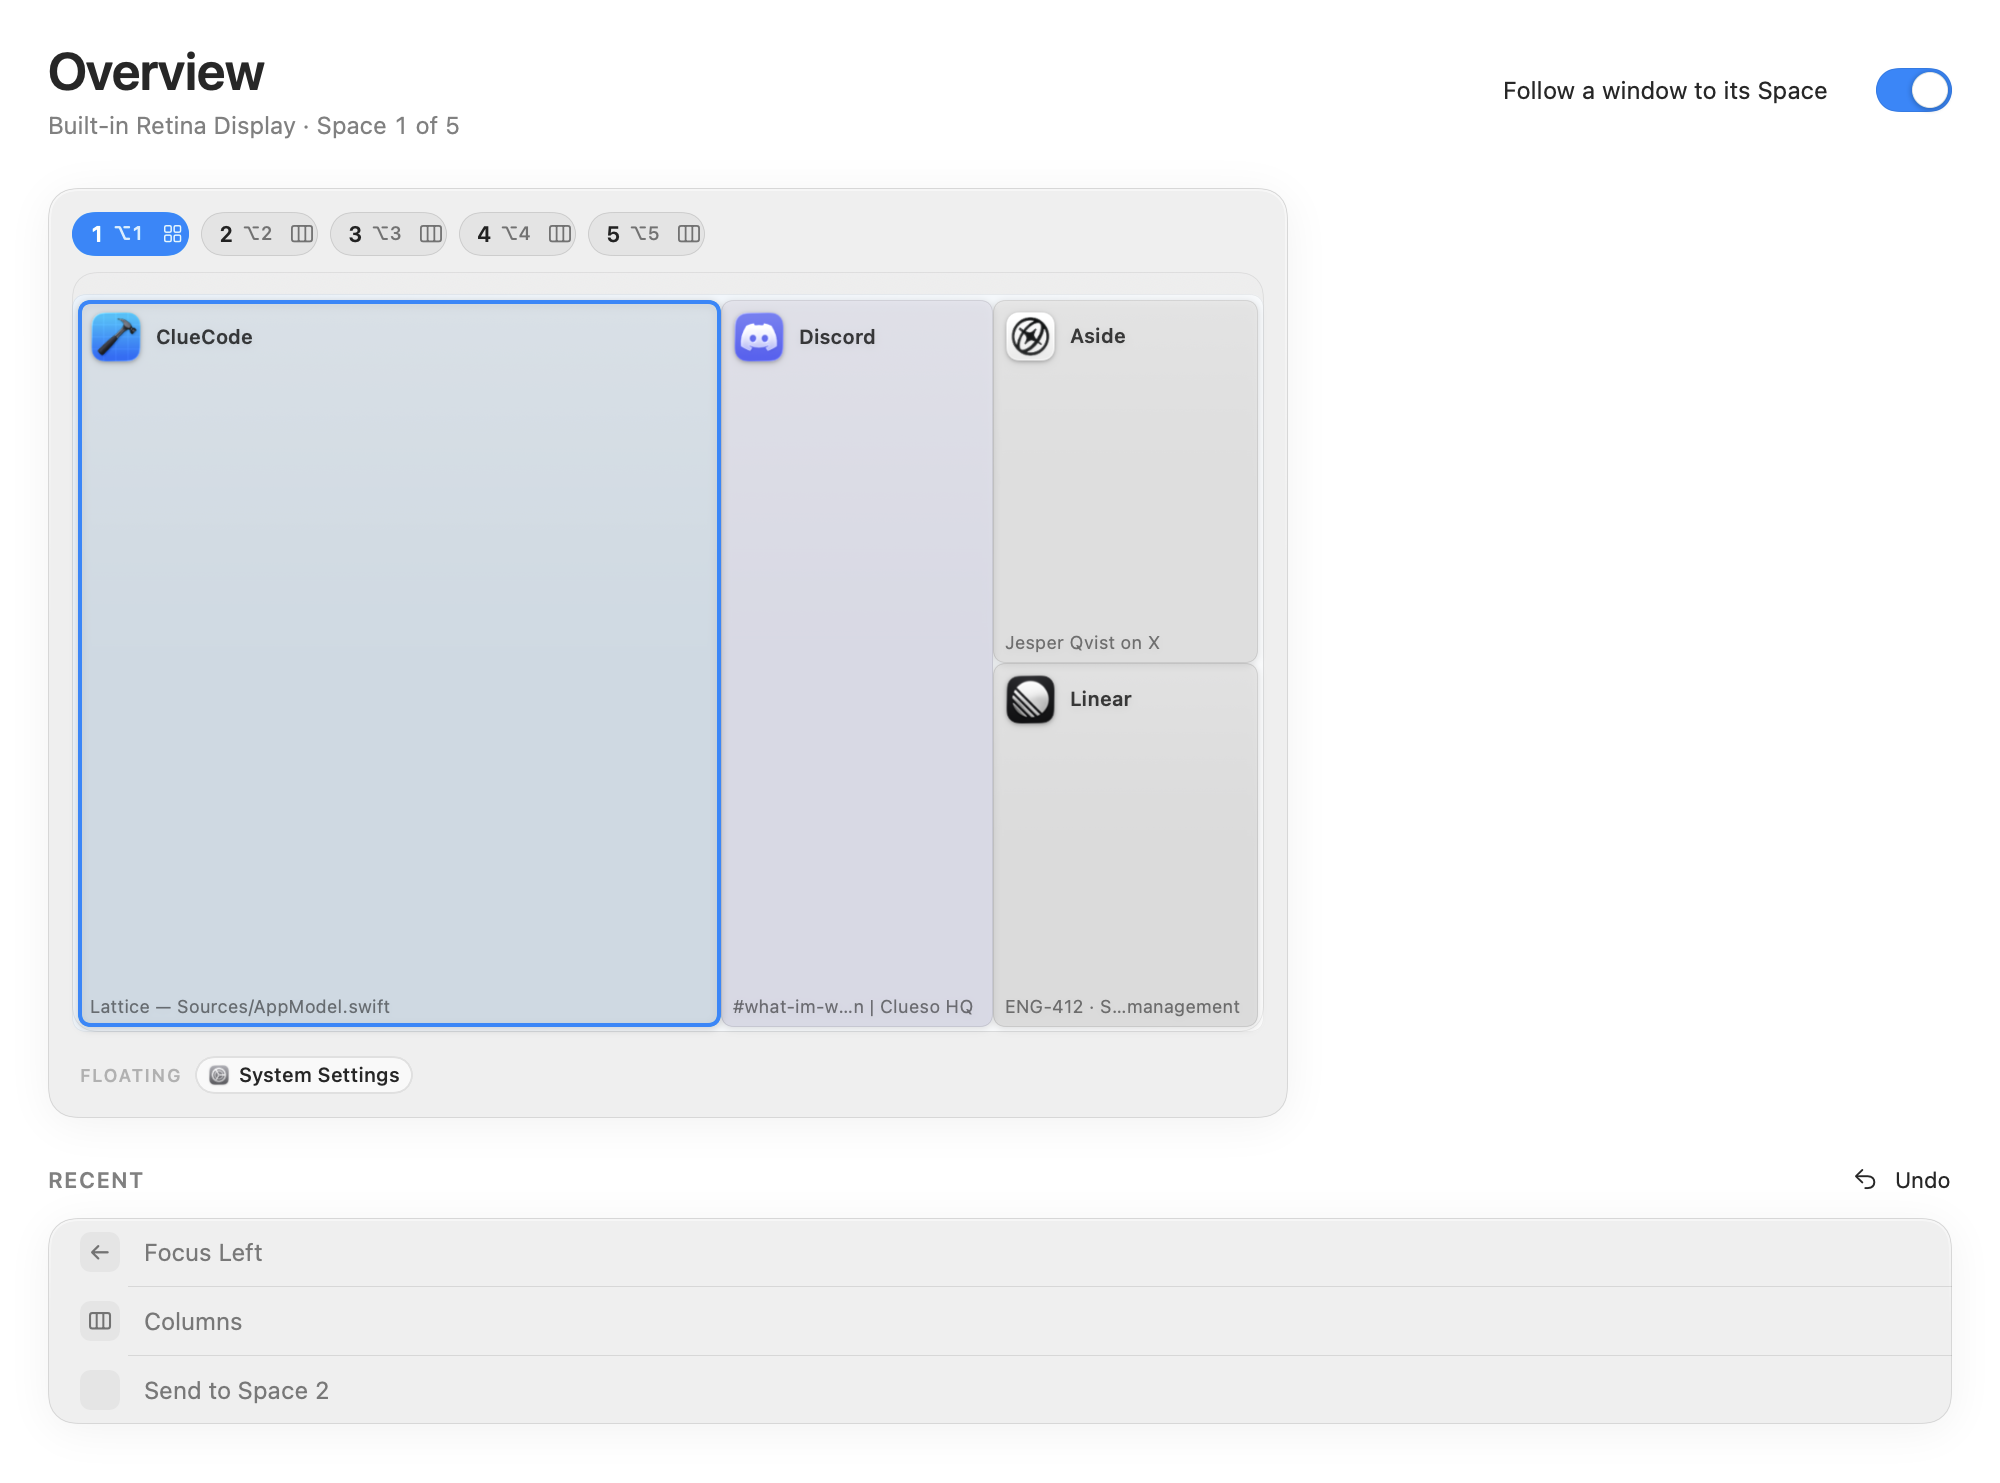
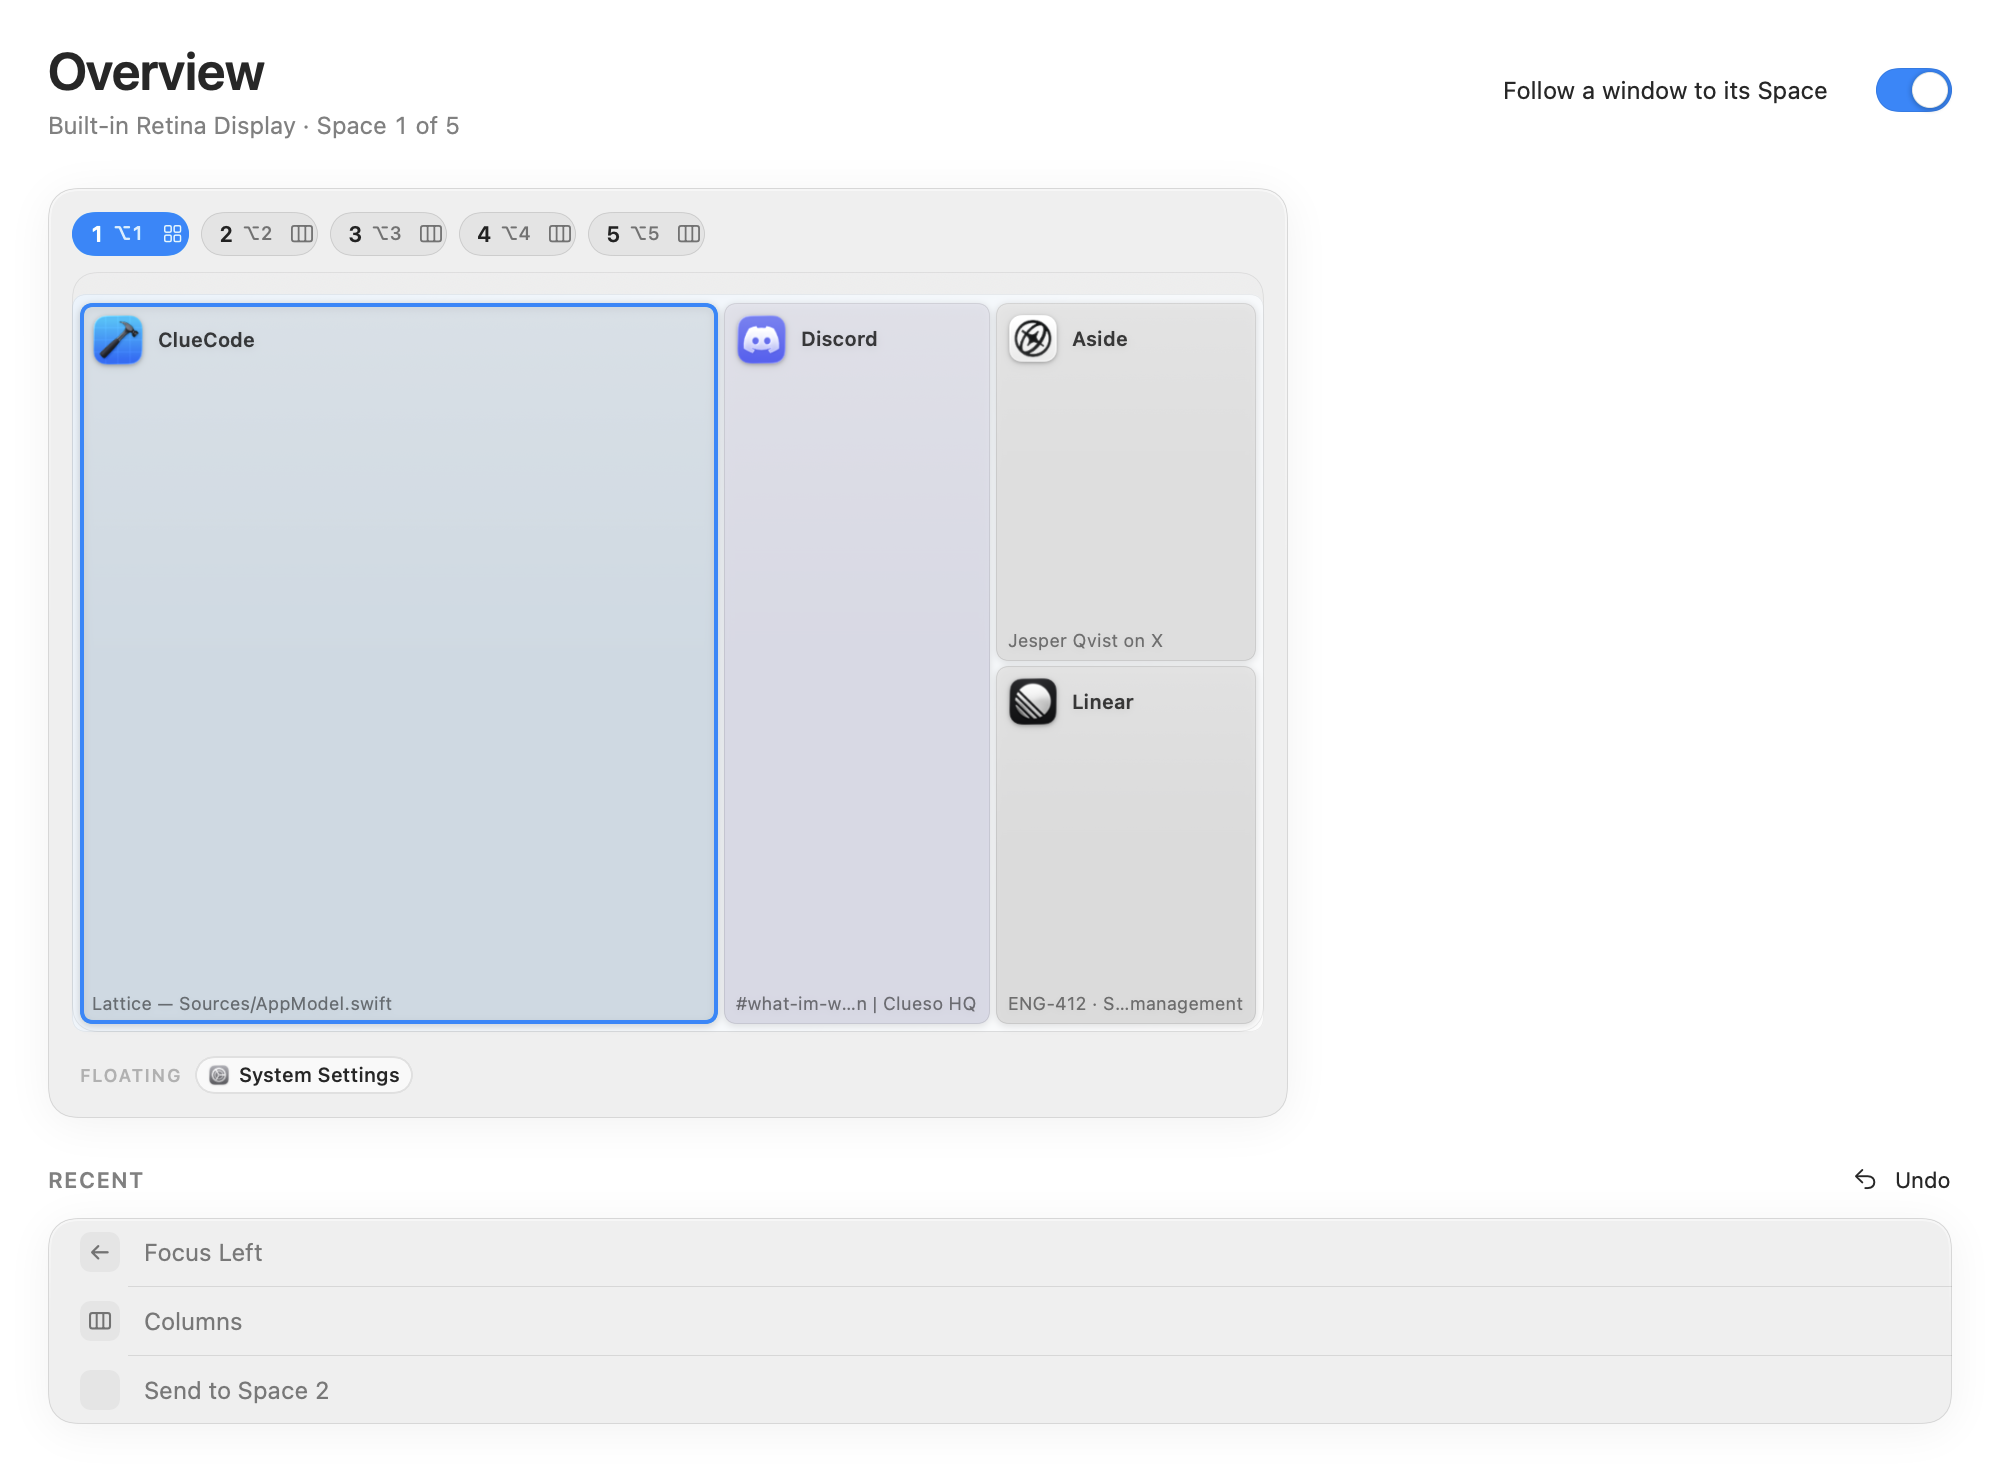
Layouts: tuning on its own row, no truncated labels, map fixtures honour gaps, footer no longer clipped

Changed region(s): [[0.031, 0.1861, 0.62, 0.7134], [0.496, 0.4032, 0.558, 0.4963], [0.496, 0.1861, 0.558, 0.2481]]

diff --git a/Sources/Lattice/UI/Layouts/LayoutSelector.swift b/Sources/Lattice/UI/Layouts/LayoutSelector.swift
@@ -23,9 +23,9 @@ struct LayoutSelector: View {
     }
 
     var body: some View {
-        HStack(alignment: .top, spacing: LatticeTheme.Spacing.xs) {
-            ForEach(LayoutKind.allCases) { kind in
-                VStack(alignment: .leading, spacing: 0) {
+        VStack(alignment: .leading, spacing: 0) {
+            HStack(alignment: .top, spacing: LatticeTheme.Spacing.xs) {
+                ForEach(LayoutKind.allCases) { kind in
                     LayoutChoiceCard(
                         kind: kind,
                         count: windowCount,
@@ -33,13 +33,16 @@ struct LayoutSelector: View {
                     ) {
                         model.setLayout(kind)
                     }
-
-                    if kind == selected && kind.hasTuning {
-                        LayoutTuning(kind: kind, model: model, prefs: prefs)
-                            .transition(.opacity)
-                    }
+                    .frame(maxWidth: .infinity)
                 }
-                .frame(maxWidth: .infinity)
+            }
+
+            // The selected layout's controls sit on their own full-width row: inside a card
+            // column they were narrower than their labels and truncated.
+            if selected.hasTuning {
+                LayoutTuning(kind: selected, model: model, prefs: prefs)
+                    .padding(.top, LatticeTheme.Spacing.xs)
+                    .transition(.opacity)
             }
         }
         .animation(LatticeTheme.animation, value: selected)
@@ -105,24 +108,30 @@ private struct LayoutTuning: View {
     @ObservedObject var prefs: LayoutsPreferences
 
     var body: some View {
-        VStack(alignment: .leading, spacing: 5) {
-            HStack(spacing: LatticeTheme.Spacing.xxs) {
-                Text(label)
-                    .font(.system(size: 10.5, weight: .medium))
-                    .foregroundStyle(.secondary)
-                    .lineLimit(1)
-                Spacer(minLength: 0)
+        HStack(spacing: LatticeTheme.Spacing.sm) {
+            Text(label)
+                .font(.system(size: 12))
+                .foregroundStyle(.secondary)
+                .lineLimit(1)
+                .frame(width: 120, alignment: .leading)
+
+            control
+                .frame(maxWidth: 260)
+
+            // A menu already shows its own value; only sliders need the readout.
+            if kind != .grid {
                 Text(valueText)
-                    .font(.system(size: 10.5, design: .monospaced))
+                    .font(.system(size: 11, design: .monospaced))
                     .foregroundStyle(.secondary)
                     .contentTransition(.numericText())
                     .lineLimit(1)
+                    .frame(width: 70, alignment: .trailing)
             }
 
-            control
+            Spacer(minLength: 0)
         }
-        .padding(.top, 6)
-        .padding(.horizontal, 2)
+        .padding(.horizontal, LatticeTheme.gutter)
+        .padding(.vertical, LatticeTheme.Spacing.xs)
         .animation(LatticeTheme.animation, value: valueText)
     }
 

diff --git a/Sources/Lattice/UI/Layouts/LayoutSpaceSection.swift b/Sources/Lattice/UI/Layouts/LayoutSpaceSection.swift
@@ -39,7 +39,7 @@ struct LayoutSpaceSection: View {
                         )
                     }
                 }
-                .frame(maxWidth: .infinity, alignment: .leading)
+                .frame(minWidth: 340, maxWidth: .infinity, alignment: .leading)
 
                 Rectangle()
                     .fill(Color.latticeHairline)
@@ -54,7 +54,7 @@ struct LayoutSpaceSection: View {
                     respectMenuBar: prefs.prefs.respectMenuBar,
                     respectDock: prefs.prefs.respectDock
                 )
-                .frame(width: 232, height: 116)
+                .frame(width: 204, height: 104)
                 .padding(.horizontal, LatticeTheme.Spacing.md)
                 .padding(.vertical, LatticeTheme.Spacing.sm)
                 .accessibilityLabel("Four windows with the current gaps and padding")

diff --git a/Sources/Lattice/DemoData.swift b/Sources/Lattice/DemoData.swift
@@ -21,11 +21,14 @@ enum DemoData {
             ?? model.focusedSpace
         let area = display.visibleFrame.insetBy(dx: 8, dy: 8)
 
+        // Fixtures must obey the same gaps the tiler would apply, or the map looks like the
+        // layout ignores the gap setting.
+        let gap = max(0, PreferencesStore.shared.prefs.gap)
         func rect(_ x: CGFloat, _ y: CGFloat, _ w: CGFloat, _ h: CGFloat) -> CGRect {
             CGRect(x: area.minX + area.width * x,
                    y: area.minY + area.height * y,
                    width: area.width * w,
-                   height: area.height * h)
+                   height: area.height * h).insetBy(dx: gap / 2, dy: gap / 2)
         }
 
         let fixtures: [(String, String, String, CGRect)] = [

diff --git a/Sources/Lattice/UI/Layouts/LayoutsPage.swift b/Sources/Lattice/UI/Layouts/LayoutsPage.swift
@@ -29,6 +29,7 @@ struct LayoutsPage: View {
             LayoutInsertionSection(prefs: prefs)
             LayoutSpacesSection(model: model, prefs: prefs)
             footer
+                .padding(.bottom, LatticeTheme.Spacing.xl)
         }
         .frame(maxWidth: LatticeTheme.contentMaxWidth, alignment: .leading)
         .padding(.horizontal, LatticeTheme.gutter)
